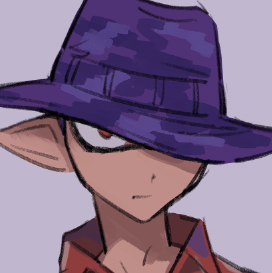
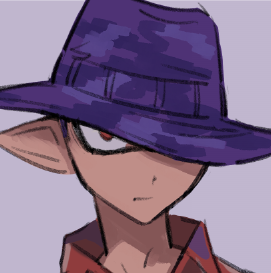
RF new pic

diff --git a/data/oc-splatoon.js b/data/oc-splatoon.js
@@ -266,7 +266,7 @@ const SPLAT_CHARA_ROSTER = {
             color: "#56a6a8",
             summary: [
                 "偶爾會在魷空塔比賽的積分榜上出現的少年。一天忽然從街上冒出騷擾艾咪而和蘭斯起衝突，一番挑釁後兩人決定用對戰解決，連續幾場下來因為表現非常出色而被招進了黑娜的隊裡。是隊伍中的遠距離擔當，狙人乾淨絲毫不手軟，甚至到了有些無情的地步。有時會毫無通知就翹掉練習。",
-                "他的話不多而且表情超少，每次聚會都一副漠不關心的樣子，而且不管對誰講話都很不客氣，還很沒有同理心，散發著一股不良少年的氣質。總是給人一種隨時會衝出去揍人的感覺。他好像很喜歡吃甜的，總是在喝飲料或是啃零食。",
+                "他的話不多，表情也超少，每次隊伍聚會都一副漠不關心的樣子，而且他不管對誰講話都很不客氣，還很沒有同理心，散發著一股不良少年的氣質。總是給人一種隨時會衝出去揍人的感覺。他好像很喜歡吃甜的，總是在喝飲料或是啃零食。",
                 "平日似乎是在高領市一家當鋪打工，會在裡面的二手武器專區幫忙修補器材。"
             ],
             notes: [
